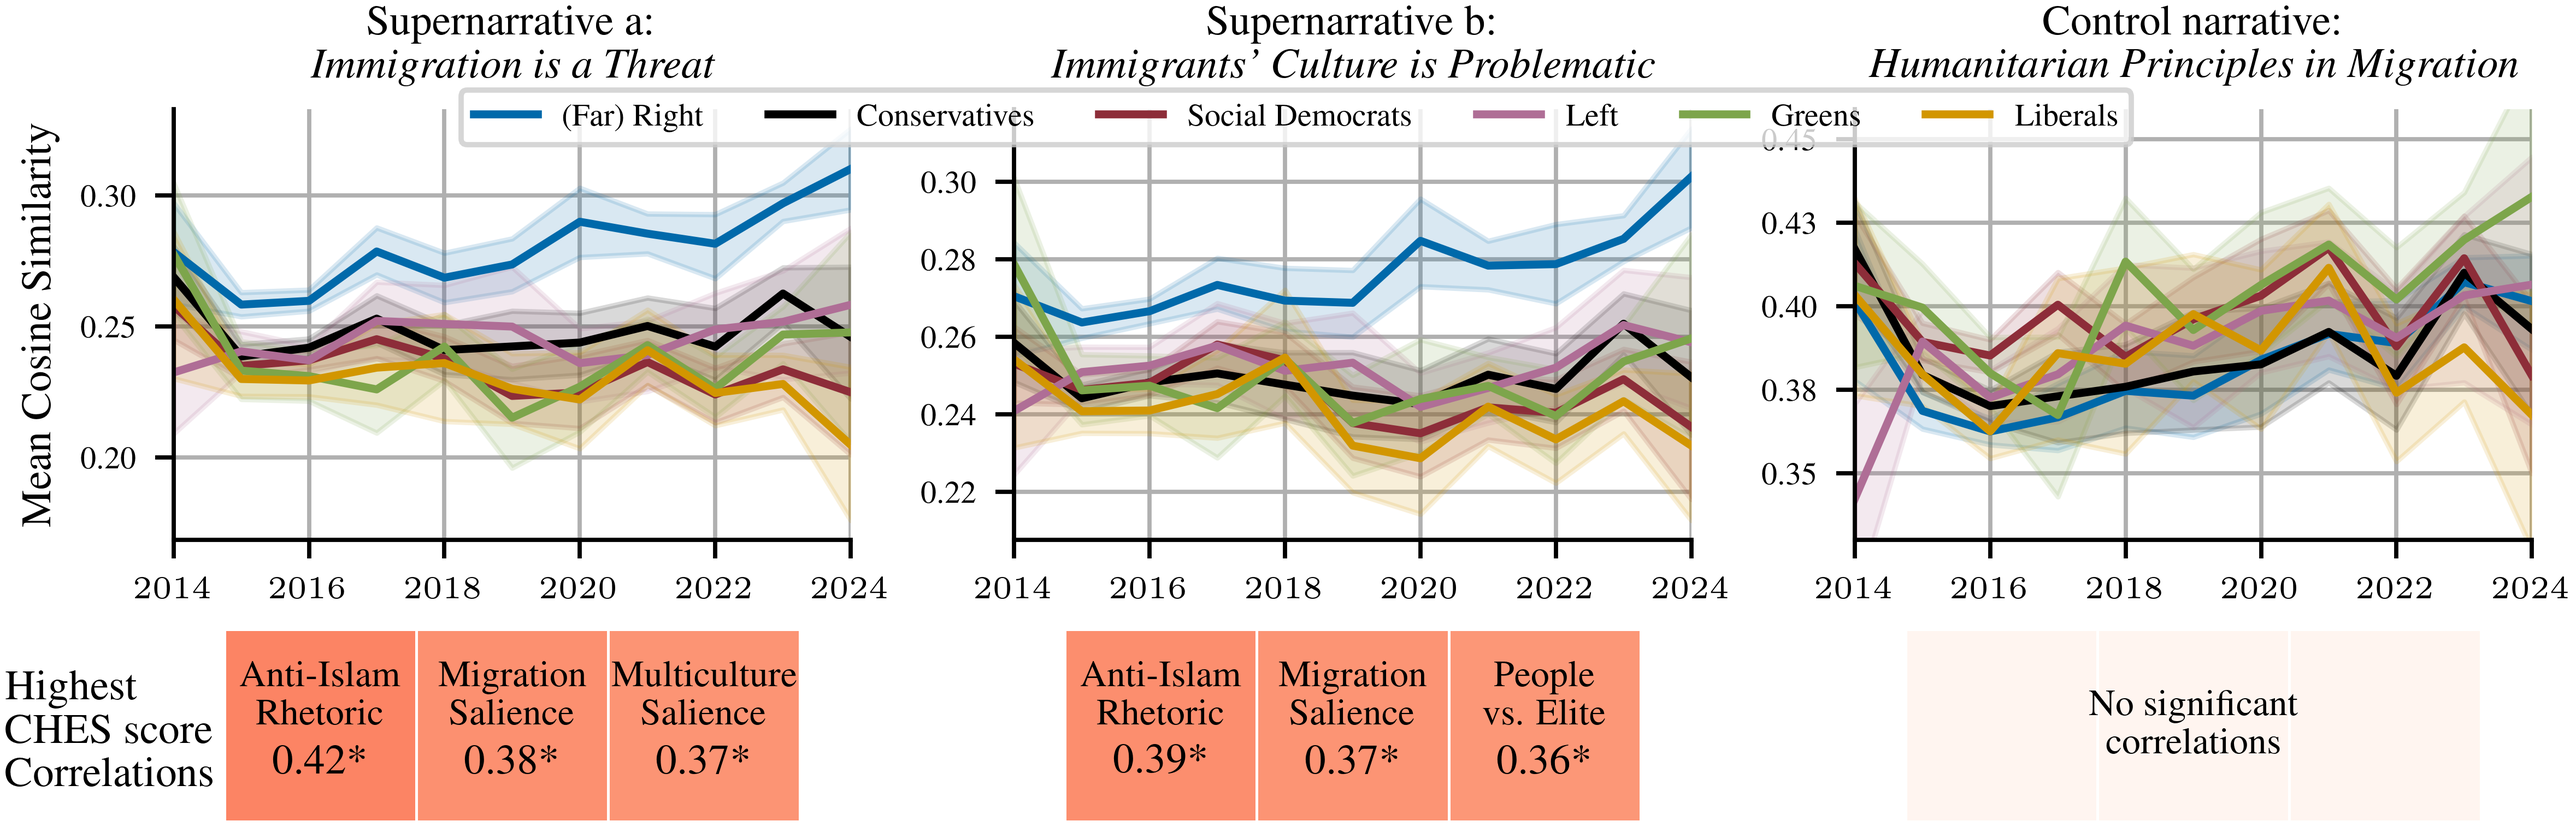
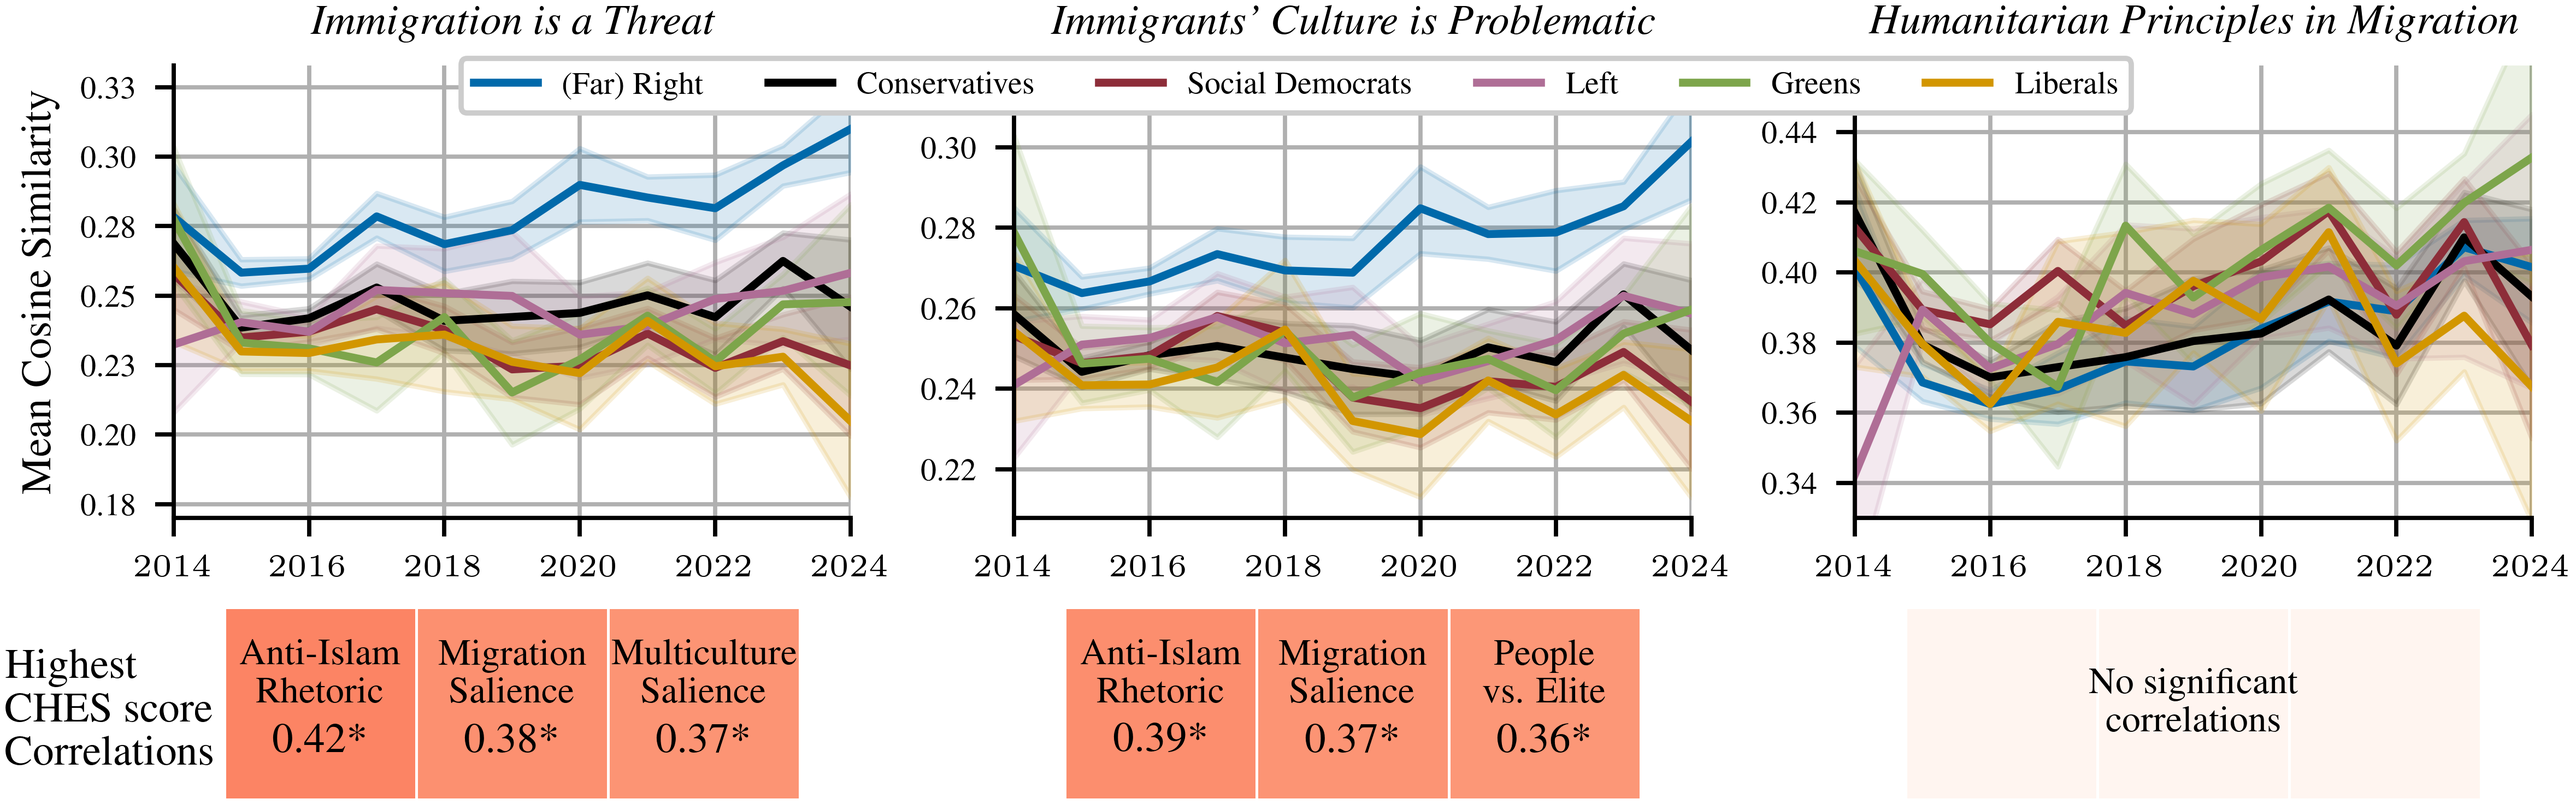
edits

diff --git a/report/sections/2_data_methods/description.tex b/report/sections/2_data_methods/description.tex
@@ -1,67 +1,10 @@
-% quirin's shortening proposal:
-% NOTE by Jakob! please dont abbreviate ParlLawSpeech with PLS, we use PLS to abbreviate Partial Least Squares!!
-
 We use the ParlLawSpeech dataset \citep{SDN-10.7802-2824}, which contains the full verbatim transcriptions of parliamentary debates between 1999 and 2024 with rich metadata. We restrict the analyses to last two complete legislative periods (2014–2024), as the 2015/2016 “refugee crisis” could mark a qualitative shift in the nature and salience of migration debates that might bias topic-model estimation. In a preliminary test, evidence for this effect was reflected by an increase in migration-labeled speeches from around 1\% before 2014 to over 2.5\% thereafter.
 
-To contextualize and validate our findings around rhetorical patterns, we draw on expert-coded party positions from the Chapel Hill Expert Survey (CHES; \citealp{rovny_CHES_2024}), which provides repeated cross-sectional estimates of party ideology (e.g.\ left-right spectrum) and policy positions (e.g.\ on immigration) using standardized scales. CHES items were rescaled to a common 0–10 metric where necessary, following \citet{adams2014voters}. To link the CHES ratings to our speech data, we enriched the corpus with speaker-level metadata from the EP’s Open Data Portal, including national party affiliation at the time of speech delivery. 
-
-While parliamentary speeches capture how parties frame political issues, CHES offers an independent, expert-based assessment of ideological positioning, allowing us to validate patterns in political discourse against an external benchmark. We use ratings from 2014, 2019, and 2024 and compute correlations with semantic speech measures.
-
-% Dennis' original version
-% To analyze migration discourse in the EP, we rely on the \textit{ParlLawSpeech} (PLS) dataset \citep{SDN-10.7802-2824}, providing us with a large-scale corpus of more than 500,000
-% verbatim parliamentary speeches alongside rich metadata, covering European legislatures between 1999 and 2024.
-% We restrict our analyses to the last two complete legislative periods (2014–2024), as the 2015/2016 “refugee crisis” marks a qualitative shift in nature and salience of 
-% migration-related debates that could bias topic-model estimation. This shift is reflected in the proportion of migration-labeled speeches, which remains around 1\% prior to 2014 but rises to over 2.5\% thereafter.
-% We further enrich the corpus with speaker-level metadata obtained from the EP’s Open Data Portal API, i.e. national party affiliation of 
-% each Member of Parliament at the time of speech delivery. To contextualize and validate patterns observed in parliamentary speech, we also draw on expert's perceptions of party positions from the \textit{Chapel Hill Expert Survey} 
-% (CHES) of \citet{rovny_CHES_2024}. CHES is a long-running study, surveying hundreds of country experts to estimate the ideological positions of national political parties across Europe on a 
-% wide range of dimensions, such as general left–right ideology, European integration, and issue-specific policy stances, e.g. experts are asked to place parties on scales from 0 ("strongly favors liberal immigration policy")
-% to 10 ("strongly favors restrictive policy").
-% Most CHES score dimensions range from 0-10, except for a few survey items (e.g. having a scale of 1-7) which we recalibrated to match the 0-10 range, as done in \citep{adams2014voters}.
-% Since 1999, the survey has been conducted roughly every four years, including 2014, 2019 and 2024, offering repeated cross-sectional measurements of 
-% party positions and enabling the study of ideological change over time.
-% While parliamentary speeches capture how parties communicate and frame political issues, CHES provides an independent, expert-based assessment of where parties are 
-% positioned in ideological space. Combining the two allows us to triangulate latent patterns in political discourse against an external benchmark that is not derived 
-% from the same textual data.
-% Exluded:
-%Importantly, CHES scores are not used to label or classify individual speeches, but instead serve as contextual variables against which aggregated 
-%speech patterns can be compared.
+To contextualize and validate our findings around rhetorical patterns with an external benchmark, we use party positions from the Chapel Hill Expert Survey (CHES; \citealp{rovny_CHES_2024}), which provides repeated cross-sectional ratings of party ideology (e.g.\ left-right spectrum) and policy positions (e.g.\ on immigration) using standardized scales. CHES items were rescaled to a common 0–10 metric where necessary, following \citet{adams2014voters}.
+National party affiliations were taken from the EP’s Open Data Portal for dataset merging. CHES ratings from 2014, 2019, and 2024 were used for correlations with semantic speech measures.
 
 In 2015 and 2016, the total number of speeches increases sharply (over 50,000 per year), compared to an average of 10,098 in other years (\textit{SD} = 2,724). %, reflecting a shift from numerous, shorter to fewer and longer speeches over time.
 This phenomenon is explained by changes in parliamentary procedure adopted at the end of 2016 \citep{tremblay2024open}, most notably the discontinuation of short written statements expressing opinions on specific issues. %Their removal largely normalizes annual speech counts.
 For the main analyses, we retain % note the purpose-ful use of present-tense because this we *do* in the analysis
 written declarations, as they often contain substantive party positions. Because such declarations could be co-signed by multiple Members and thus appear duplicated in the dataset, we retained % note the purpose-ful use of past here, because this was pre-processing that we *did*
 only the first instance.
-
-Due to the fragmentation of right-wing forces in the EP and realignment across legislative terms, parliamentary groups were sorted into six ideological blocs following \citet{kaiser_seventy_2023}, see \Cref{fig:fig1_lda}.
-
-% TODO specific numbers/facts on CHES<->PLS merging? (how many rows enriched etc.)
-% By employing Latent Dirichlet Allocation (TODO verweis sec), we identify speeches related to the topic of migration, and after only including the legislative periods between 2014 and 2024
-% this leaves us with 9,705 datapoints in total.
-% After only including speeches of legislative terms between 2014 and 2024, this leaves us with XXXX datapoints in total.
-% -> put this at the end of the preprocessing section?
-%
-%%% OLD TEXT
-%We are using the novel \textit{ParlLawSpeech} (PLS) dataset from Schwalbach et al. 2025 for the investigation of our study. 
-%It contains more than 570,000 plenary speeches from legislative periods of the European parliament (EP) between 1999 and 2024.
-%The authors also provide (partially) machine translated text in English for about 40\% of the speeches, since the EP stopped providing official translations around the end of 2012. 
-%Furthermore, the dataset contains metadata on the speakers and the speeches given,
-%e.g. date and agenda item under which the speech was given, if submission was in written form and/or from multiple \textit{members of parliament} (MEPs), or the speaker's 
-%party affiliation (referring to European political parties/groups), among other. We further enriched
-%the dataset with metadata accessible from the public API of the EP's "Open Data Portal", in particular the national party affiliations of each speaker (by using the \textit{EP-ID} of the 
-%respective MEPs). This allowed us to link the PLS dataset with the \textit{Chapel Hill Expert Survey} (CHES)
-%from Rovny, Bakker et al. 2025. The CHES dataset estimates party positioning on European integration, ideology (e.g. left/right) and policy issues for national parties in all member states of 
-%the European Union (EU). The study surveyed hundreds of experts roughly every four years
-%between 1999 and 2024 and more recently (**TODO**: since when???) also includes ratings of non-EU policy issues such as immigration or anti-elite rhetoric (**TODO:** which are relevant in 
-%particular?) Assuming that the ideological orientation of a speaker's affiliated national party
-%roughly reflects his own position, the CHES data set could help us to better control our analyses, as membership of a European party (group) presumably allows for less detailed/granular 
-%statements/assumptions.
-%We restrict our analyses to the last two complete legislative periods (2014–2024), as the 2015/2016 “refugee crisis” marks a qualitative shift in the nature and salience of 
-%migration-related debates that could bias topic-model estimation. This shift is reflected in the proportion of migration-labeled speeches, which remains around 1\% prior to 2014 but rises to over 2.5\% thereafter.
-%
-%% OLD TEXT: 2015 and 2016 anomaly 
-%\textbf{2015 and 2016 anomaly} In 2015 and 2016, there is a drastic increase in the number of speeches compared to the other years (72,964 in 2015 and 16 on average, compared to 10,098 in the other years on average). 
-%This difference can be explained with a rule-change that was adopted by the parliament at the end of 2016, discontinuing so-called 'written declarations' that allowed party members to hand in short expressions of 
-%opinion on a certain issue [TODO ref]. Omitting all 'written' speeches (TODO: explain what written flag means) can normalize the number of speeches per year. However, for the general analysis, we keep written declarations as 
-%part of the dataset because they can contain relevant stances of the parties on political issues. Since written declarations could be co-signed by multiple speakers, they can appear duplicated in the dataset. 
-%These duplicated items were removed, keeping only the first instance of a duplicated speech.

diff --git a/report/sections/2_data_methods/preprocessing/commentary.tex b/report/sections/2_data_methods/preprocessing/commentary.tex
@@ -1,8 +1,10 @@
 
-\subsubsection{Removing Commentary} 
 % Shortened suggestion by Jakob 
 The speeches often include bracketed comments that contain markers of the original language, parliamentary incidents, or procedural notes. We removed these comments using rule-based methods. There are also substantial redundencies in the openning and closing sections of the speeches (greetings, etc.). These sections follow similar rhetorical structures but exhibit substantial lexical variation. To remove redundant formalities, we identified low-impact sentences using TF-IDF which scores the amount of information of a sentence \citep{jones_statistical_1972}.
 Two independent raters annotated 100 sampled low-scoring sentences for informational relevance. With these ratings we fit a logistic regression model to estimate the threshold required for 95\% classification accuracy. For each speech, first and last sentences were removed if their TF-IDF score was below this threshold.
+
+Due to the fragmentation of right-wing forces in the EP and realignment across legislative terms, parliamentary groups were sorted into six ideological blocs following \citet{kaiser_seventy_2023}, see \Cref{fig:fig1_lda}.
+
 
 % We detect high amount of superfluous commentary in transliterated speeches:  markers of the original language, background incidents, and procedural notes. These markers might be source of unwanted bias, which we want to avoid. Fortunately they are predominantly located within parentheses and can be easily removed with rule-based methods. We also observe substantial redundency in the openning and closing sections of the speeches.
 % These sections follow similar rhetorical structures but exhibit substantial lexical variation. To identify low-impact sentences we use TF-IDF algorithm to score the amount of information they contain.

diff --git a/report/fig/fig4_search.py b/report/fig/fig4_search.py
@@ -20,9 +20,9 @@ selected_categories = [
 ]
 
 category_labels = {
-    "immigrants_as_threat": "Supernarrative a: \n \\textit{Immigration is a Threat}",
-    "immigrants_as_problematic": "Supernarrative b: \n \\textit{Immigrants' Culture is Problematic}",
-    "immigrants_humanitarian": "Control narrative: \n \\textit{Humanitarian Principles in Migration}"
+    "immigrants_as_threat": "\\textit{Immigration is a Threat}",
+    "immigrants_as_problematic": "\\textit{Immigrants' Culture is Problematic}",
+    "immigrants_humanitarian": "\\textit{Humanitarian Principles in Migration}"
 }
 
 # get CHES dimensions that were assessed in at least 2 different years
@@ -90,7 +90,7 @@ for i, category in enumerate(selected_categories):
 
 # Bottom row: mini heatmaps
 # Add title for bottom row
-fig.text(0, 0.25, 'Highest \n CHES score \n Correlations', ha='left')
+fig.text(0, 0.27, 'Highest \n CHES score \n Correlations', ha='left')
 
 for i, category in enumerate(selected_categories):
     ax = axes[1, i]
@@ -153,7 +153,7 @@ for i in range(3):
 
 fig.legend(handles=handles, labels=[const.LEGEND_BLOCK[label] for label in labels], 
            loc='upper center', ncol=len(const.ORDER_BLOCK), frameon=True, 
-           bbox_to_anchor=(0.5, 0.92), fancybox=True, shadow=False)
+           bbox_to_anchor=(0.5, 0.95), fancybox=True, shadow=False, framealpha=1.0)
 
 fig.savefig("report/fig/fig4_search.pdf", bbox_inches='tight')
 fig.savefig("report/fig/fig4_search.png", bbox_inches='tight')

diff --git a/report/report.tex b/report/report.tex
@@ -102,7 +102,7 @@
 % DO USE YOUR UNIVERSITY EMAIL ADDRESS!
 
 % for the Data Literacy report, to save space, you can here list the student email address of one author, who is willing to be contacted about this work in the future (e.g. in case we would like to use your report as an example for future course iterations)
-\icmlcorrespondingauthor{AB}{giorgi.gogelashvili@student.uni-tuebingen.de} 
+\icmlcorrespondingauthor{GG}{giorgi.gogelashvili@student.uni-tuebingen.de} 
 % \icmlcorrespondingauthor{Initials2}{first2.last2@uni-tuebingen.de}
 % \icmlcorrespondingauthor{Initials3}{first3.last3@uni-tuebingen.de}
 % \icmlcorrespondingauthor{Initials4}{first4.last4@uni-tuebingen.de}
@@ -188,7 +188,7 @@
 \vskip 0.2in
 \begin{center}
 \centerline{\includegraphics[width=\textwidth]{"fig/fig4_search.pdf"}}
-\caption{Semantic similarity to selected migration narratives: temporal trajectories and top correlations to expert party ratings (CHES scores). Shadings indicate bootstrapped 95\% confidence intervals.}
+\caption{Semantic similarity to two migration supernarratives and the control prompt: temporal trajectories and top correlations to expert party ratings (CHES scores). Shadings indicate bootstrapped 95\% confidence intervals.}
 \label{fig:fig4_search}
 \end{center}
 \vskip -0.2in

diff --git a/report/sections/2_data_methods/preprocessing/translation.tex b/report/sections/2_data_methods/preprocessing/translation.tex
@@ -1,4 +1,3 @@
-\subsubsection{Translation}
 % until Nov 2012 EU published translations themselves https://html-preview.github.io/?url=https://github.com/ChRauh/OPTED-WP5-Translation/blob/main/PLS-TranslationDocumentation.html
 % Parrlaw translated until April 18 2019
 We use English translations to control for potential biases introduced by embeddings of different languages. 
